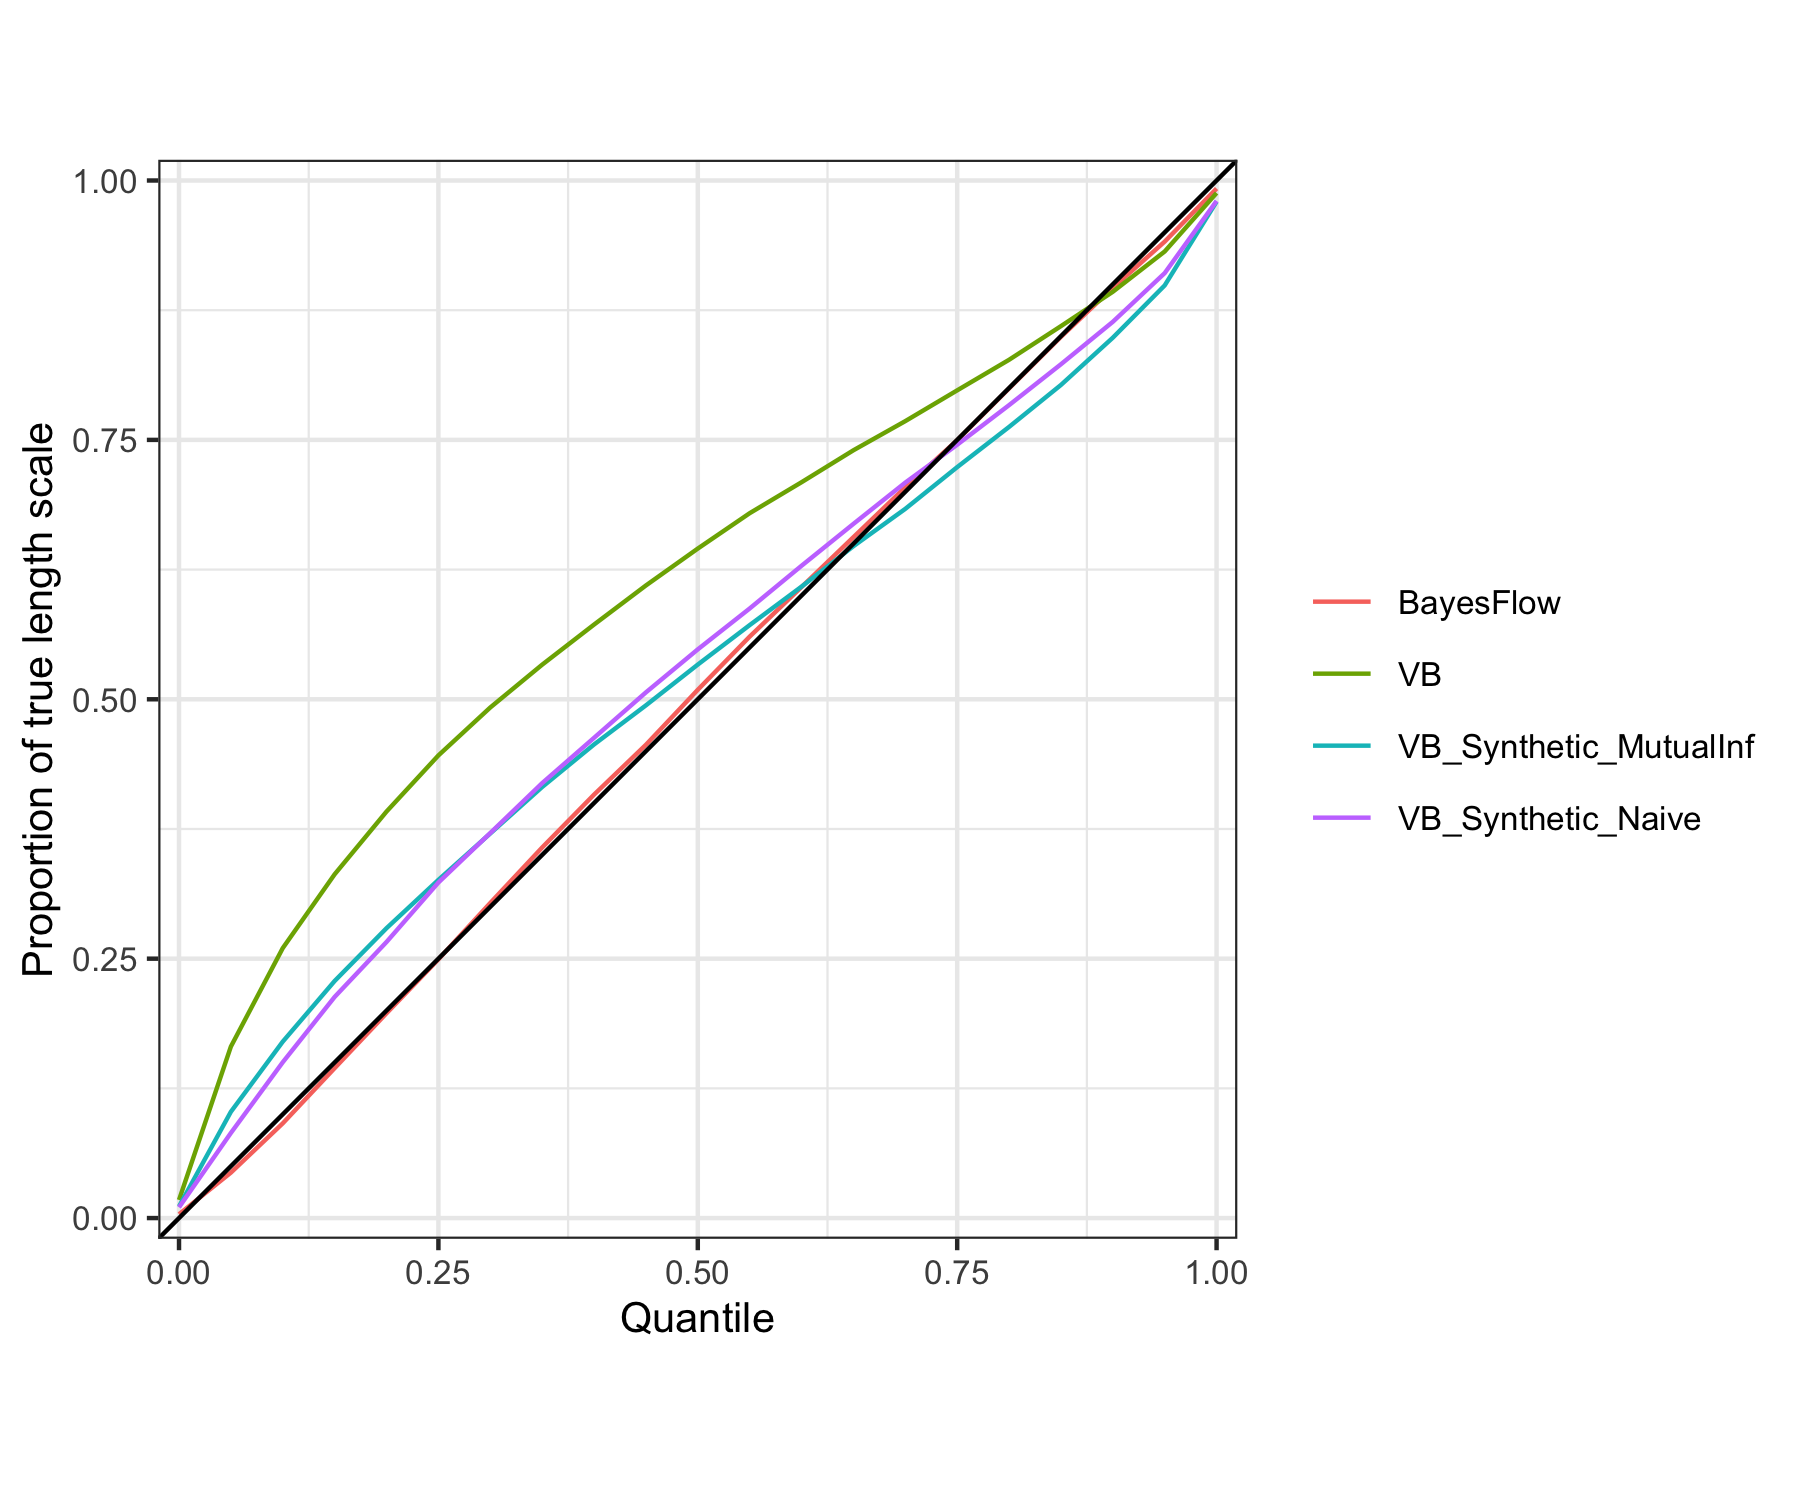
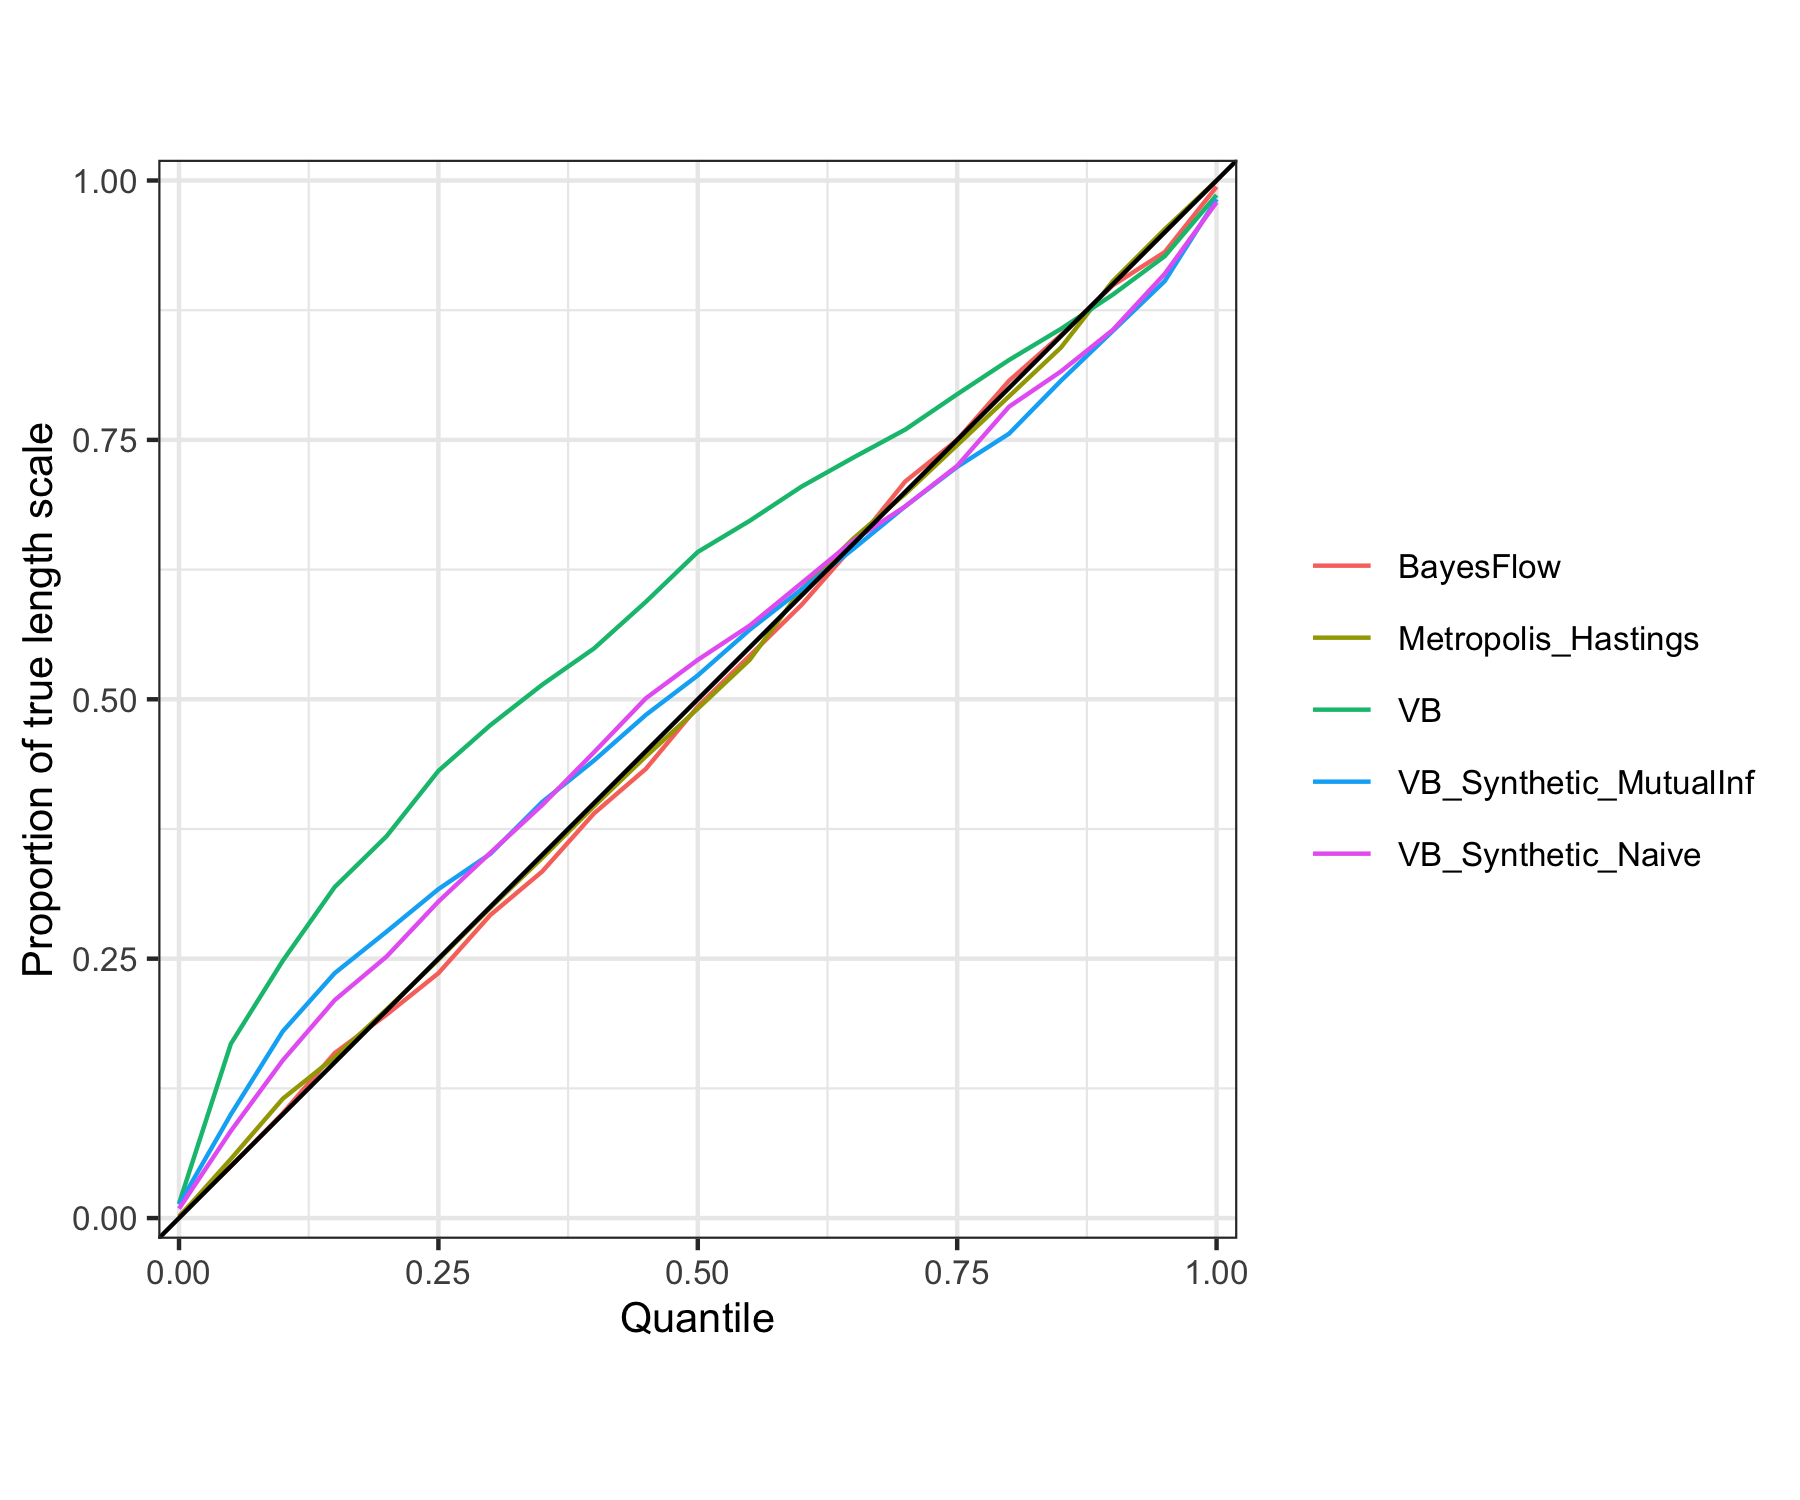
Some tweaks to results code

diff --git a/fig/results_table.tex b/fig/results_table.tex
@@ -2,17 +2,18 @@
 \begin{document}
 \thispagestyle{empty}
 % latex table generated in R 4.3.2 by xtable 1.8-4 package
-% Wed Feb 28 11:00:39 2024
+% Thu Feb 29 09:25:30 2024
 \begin{table}[ht]
 \centering
 \begin{tabular}{rlrrrrr}
   \hline
  & Method & rmspe & mae & is90 & cov90 & CRPS \\ 
   \hline
-1 & BayesFlow & 0.0336 & 0.0249 & 0.1288 & 0.8973 & 0.0177 \\ 
-  2 & VB & 0.0396 & 0.0283 & 0.1641 & 0.7663 & 0.0175 \\ 
-  3 & VB\_Synthetic\_MutualInf & 0.0402 & 0.0295 & 0.1610 & 0.7964 & 0.0188 \\ 
-  4 & VB\_Synthetic\_Naive & 0.0400 & 0.0294 & 0.1566 & 0.8287 & 0.0194 \\ 
+1 & Metropolis\_Hastings & 0.0294 & 0.0215 & 0.1054 & 0.8960 & 0.0150 \\ 
+  2 & BayesFlow & 0.0348 & 0.0256 & 0.1310 & 0.8810 & 0.0180 \\ 
+  3 & VB & 0.0410 & 0.0286 & 0.1718 & 0.7590 & 0.0178 \\ 
+  4 & VB\_Synthetic\_MutualInf & 0.0413 & 0.0298 & 0.1643 & 0.8030 & 0.0190 \\ 
+  5 & VB\_Synthetic\_Naive & 0.0410 & 0.0299 & 0.1632 & 0.8260 & 0.0195 \\ 
    \hline
 \end{tabular}
 \end{table}
